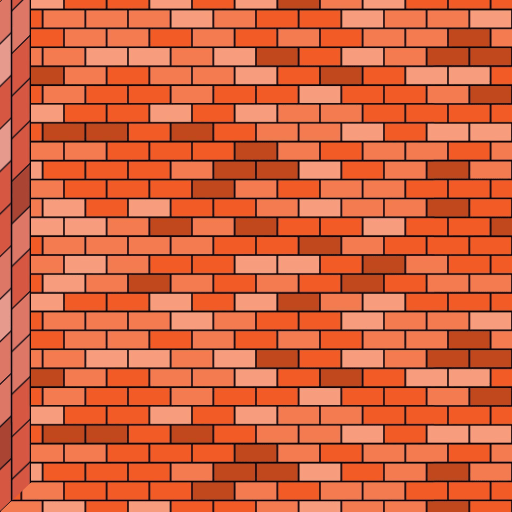
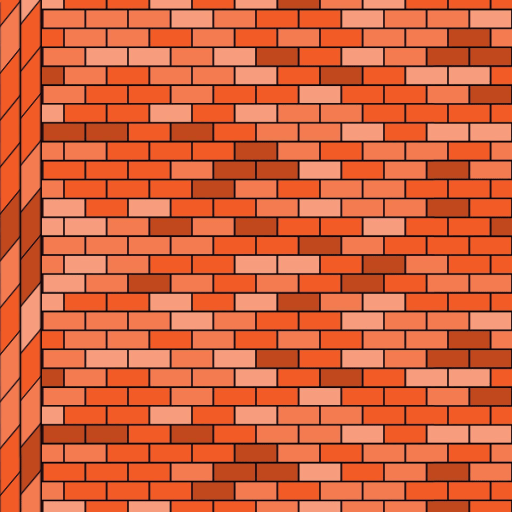
billboard size fixed

Changed region(s): [[0.0, 0.0, 0.0938, 1.0]]

diff --git a/src/HonkTrooper/HonkTrooper/Pages/HonkBomberPage.xaml.cs b/src/HonkTrooper/HonkTrooper/Pages/HonkBomberPage.xaml.cs
@@ -1644,7 +1644,7 @@ namespace HonkTrooper
                 roadSideWalkBottom.IsAnimating = true;
                 roadSideWalkBottom.SetPosition(
                     left: (roadSideWalkBottom.Height * -1.5) - 30,
-                    top: (Constants.DEFAULT_SCENE_HEIGHT / 5 + roadSideWalkBottom.Height / 2) - 100,
+                    top: (Constants.DEFAULT_SCENE_HEIGHT / 5 + roadSideWalkBottom.Height / 2) - 90,
                     z: 0);
             }
 
@@ -1990,7 +1990,7 @@ namespace HonkTrooper
                 roadSideBillboardTop.IsAnimating = true;
 
                 roadSideBillboardTop.SetPosition(
-                  left: (Constants.DEFAULT_SCENE_WIDTH / 2.5 - roadSideBillboardTop.Width) + 48,
+                  left: (Constants.DEFAULT_SCENE_WIDTH / 2.5 - roadSideBillboardTop.Width) + 25,
                   top: ((roadSideBillboardTop.Height * 1.5) * -1) - 10,
                   z: 4);
             }

diff --git a/src/HonkTrooper/HonkTrooper/Constants.cs b/src/HonkTrooper/HonkTrooper/Constants.cs
@@ -67,7 +67,7 @@ namespace HonkTrooper
             new (ConstructType.ROAD_SIDE_WALK, 300, 300),
             new (ConstructType.ROAD_SIDE_LAMP, 150, 150),
             new (ConstructType.ROAD_SIDE_LIGHT_BILLBOARD, 150, 150),
-            new (ConstructType.ROAD_SIDE_BILLBOARD, 340, 340),
+            new (ConstructType.ROAD_SIDE_BILLBOARD, 310, 310),
 
             new (ConstructType.DROP_SHADOW, 60, 25),
 
